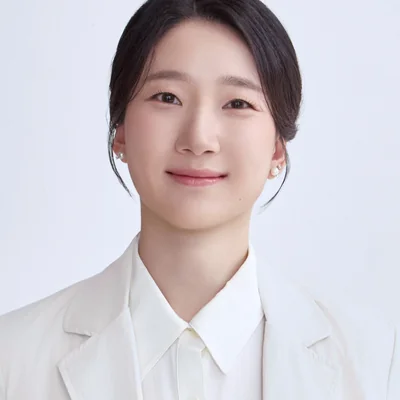
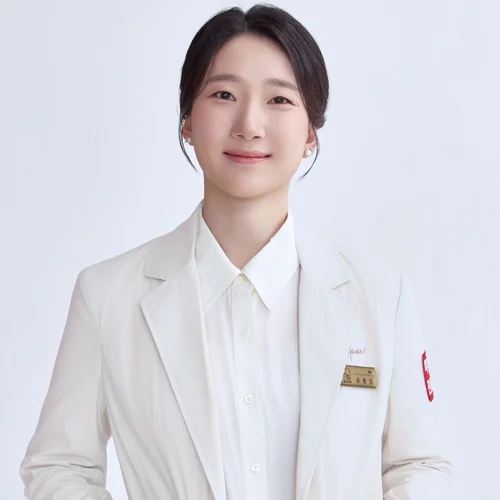
원장 사진 가슴까지 다시 크롭 + 소속 단순화 + 칩 실시간 필터
- 모든 원장 프로필 사진 재크롭: side 0.36→0.58, 중심 y 0.23→0.30
  → 머리부터 가슴까지 자연스럽게 (얼굴 클로즈업 제거), 500x500 WebP
- 단일 원장 페이지 헤더 단순화: "힐하우스피부과 강남점"만
  ("· 피부과 전문의" 제거)
- 검색창 입력 시 인기 검색어 칩 실시간 필터링
  (입력값과 매칭되는 칩만 표시, 0개면 영역 숨김)
- 캐시 버스터 v=3→v=4

diff --git a/js/app.js b/js/app.js
@@ -146,6 +146,29 @@
     setupChipsExpand();
   }
 
+  // 입력값에 매칭되는 칩만 보이게 필터링
+  function filterChips(query) {
+    const popular = $('#popular-chips');
+    const container = $('#chips-container');
+    if (!container) return;
+    const chips = container.querySelectorAll('.chip');
+    const norm = (window.PBTT.normalize || (s => (s||'').toLowerCase()))(query || '');
+    let visible = 0;
+    chips.forEach(c => {
+      if (!norm) {
+        c.style.display = '';
+        visible++;
+        return;
+      }
+      const cn = (window.PBTT.normalize || (s => (s||'').toLowerCase()))(c.dataset.query || '');
+      const match = cn.includes(norm) || norm.includes(cn);
+      c.style.display = match ? '' : 'none';
+      if (match) visible++;
+    });
+    // 매칭 칩 0개면 popular 영역 자체 숨김
+    if (popular) popular.style.display = (norm && visible === 0) ? 'none' : '';
+  }
+
   function setupChipsExpand() {
     const popular = $('#popular-chips');
     const chips = $('#chips-container');
@@ -868,7 +891,7 @@
       <header class="doctor-hero">
         <img class="doctor-hero-photo" src="${doctor.photo}" alt="${doctor.name} 원장" width="160" height="160">
         <h1 class="doctor-hero-name">${escapeHtml(doctor.name)} <small>원장</small></h1>
-        <div class="doctor-hero-branch">${escapeHtml(affiliation)} · 피부과 전문의</div>
+        <div class="doctor-hero-branch">${escapeHtml(affiliation)}</div>
         <p class="doctor-hero-intro">${escapeHtml(doctor.intro || '')}</p>
       </header>
       <h3 class="doctor-qa-heading">${escapeHtml(doctor.name)} 원장의 Q&A ${qas.length > 0 ? `(${qas.length})` : ''}</h3>
@@ -979,7 +1002,9 @@
         runSearch(input.value.trim());
       });
       input.addEventListener('input', () => {
-        debouncedSearch(input.value.trim());
+        const q = input.value.trim();
+        filterChips(q);
+        debouncedSearch(q);
       });
     }
 

diff --git a/saved.html b/saved.html
@@ -10,7 +10,7 @@
   <link rel="preconnect" href="https://fonts.googleapis.com">
   <link rel="preconnect" href="https://fonts.gstatic.com" crossorigin>
   <link href="https://fonts.googleapis.com/css2?family=Noto+Sans+KR:wght@400;500;600;700;800&family=Playfair+Display:wght@700&display=swap" rel="stylesheet">
-  <link rel="stylesheet" href="css/style.css?v=3">
+  <link rel="stylesheet" href="css/style.css?v=4">
   <link rel="icon" type="image/svg+xml" href="images/logo.svg">
   <link rel="apple-touch-icon" href="images/logo.svg">
 </head>
@@ -59,8 +59,8 @@
 
   <div class="toast" id="toast"></div>
 
-  <script src="js/data.js?v=3"></script>
-  <script src="js/search.js?v=3"></script>
-  <script src="js/app.js?v=3"></script>
+  <script src="js/data.js?v=4"></script>
+  <script src="js/search.js?v=4"></script>
+  <script src="js/app.js?v=4"></script>
 </body>
 </html>

diff --git a/doctors.html b/doctors.html
@@ -9,7 +9,7 @@
   <link rel="preconnect" href="https://fonts.googleapis.com">
   <link rel="preconnect" href="https://fonts.gstatic.com" crossorigin>
   <link href="https://fonts.googleapis.com/css2?family=Noto+Sans+KR:wght@400;500;600;700;800&display=swap" rel="stylesheet">
-  <link rel="stylesheet" href="css/style.css?v=3">
+  <link rel="stylesheet" href="css/style.css?v=4">
   <link rel="icon" type="image/svg+xml" href="images/logo.svg">
   <link rel="apple-touch-icon" href="images/logo.svg">
 </head>
@@ -57,8 +57,8 @@
 
   <div class="toast" id="toast"></div>
 
-  <script src="js/data.js?v=3"></script>
-  <script src="js/search.js?v=3"></script>
-  <script src="js/app.js?v=3"></script>
+  <script src="js/data.js?v=4"></script>
+  <script src="js/search.js?v=4"></script>
+  <script src="js/app.js?v=4"></script>
 </body>
 </html>

diff --git a/index.html b/index.html
@@ -27,7 +27,7 @@
   <link rel="preconnect" href="https://fonts.gstatic.com" crossorigin>
   <link href="https://fonts.googleapis.com/css2?family=Noto+Sans+KR:wght@400;500;600;700;800&display=swap" rel="stylesheet">
 
-  <link rel="stylesheet" href="css/style.css?v=3">
+  <link rel="stylesheet" href="css/style.css?v=4">
   <link rel="icon" type="image/svg+xml" href="images/logo.svg">
   <link rel="apple-touch-icon" href="images/logo.svg">
 
@@ -142,8 +142,8 @@
 
   <div class="toast" id="toast"></div>
 
-  <script src="js/data.js?v=3"></script>
-  <script src="js/search.js?v=3"></script>
-  <script src="js/app.js?v=3"></script>
+  <script src="js/data.js?v=4"></script>
+  <script src="js/search.js?v=4"></script>
+  <script src="js/app.js?v=4"></script>
 </body>
 </html>
